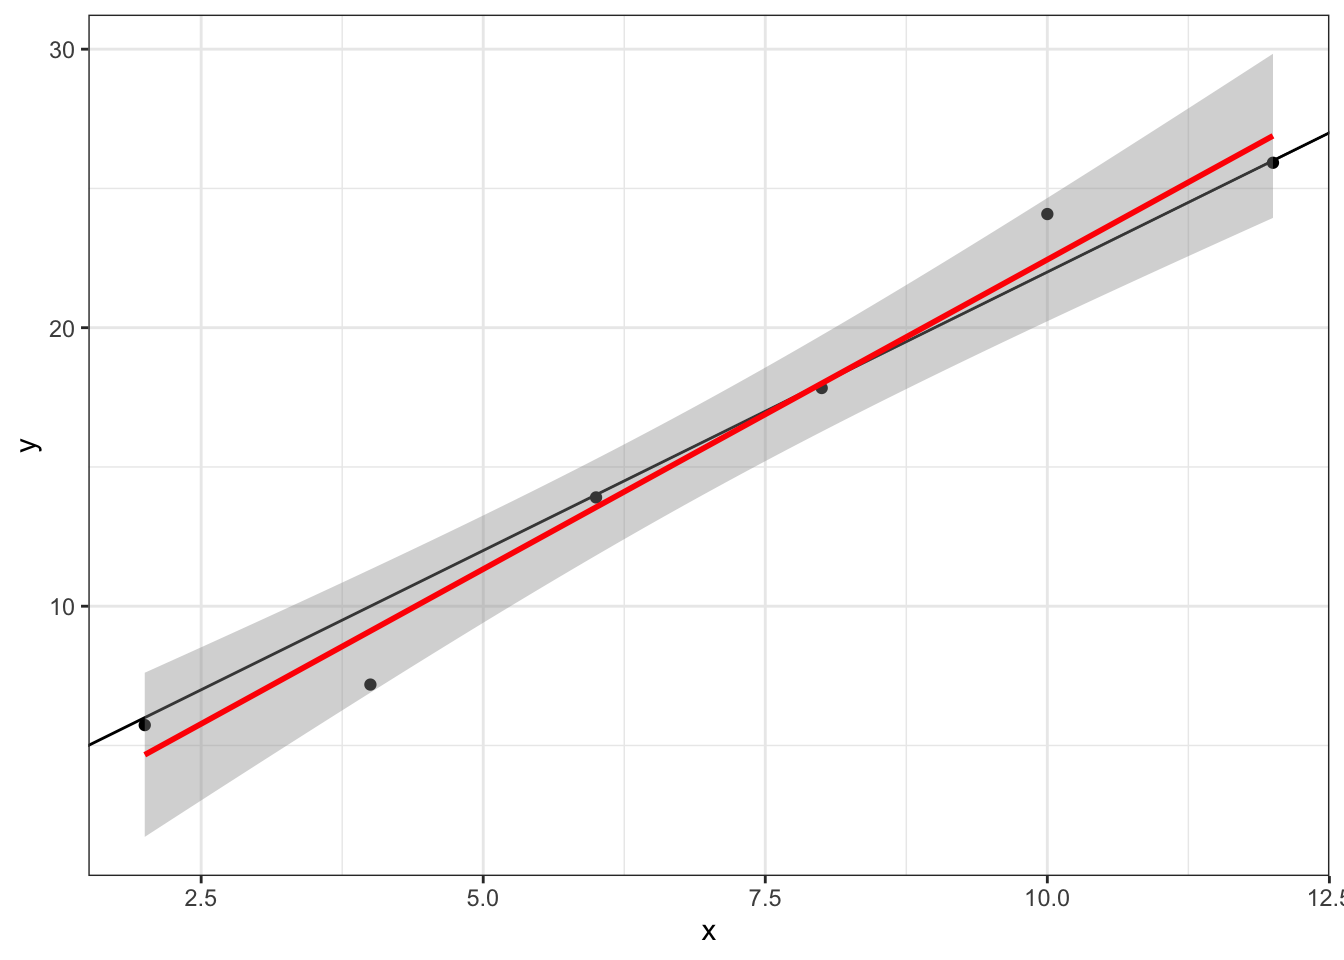
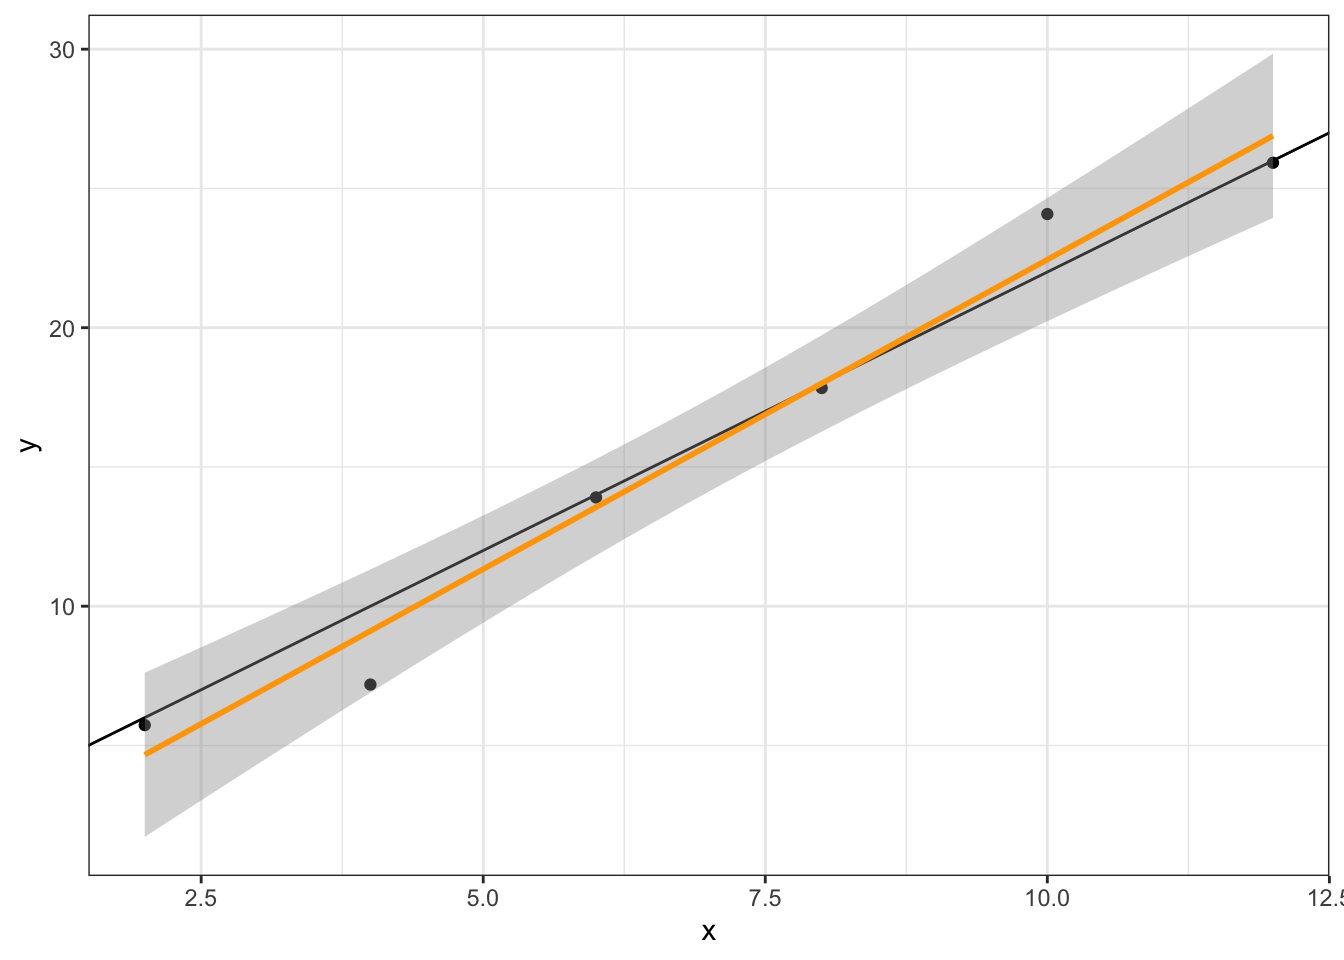
Minor edits

diff --git a/index.html b/index.html
@@ -283,7 +283,7 @@ e_i = y_i - \hat{y}_i
 <span id="cb9-4"><a href="#cb9-4" aria-hidden="true" tabindex="-1"></a>  <span class="fu">geom_point</span>() <span class="sc">+</span></span>
 <span id="cb9-5"><a href="#cb9-5" aria-hidden="true" tabindex="-1"></a>  <span class="fu">geom_abline</span>(<span class="at">intercept =</span> a, <span class="at">slope =</span> b) <span class="sc">+</span></span>
 <span id="cb9-6"><a href="#cb9-6" aria-hidden="true" tabindex="-1"></a>  <span class="co"># geom_abline(intercept = fit$coefficients[1], slope = fit$coefficients[2], color = "red") +</span></span>
-<span id="cb9-7"><a href="#cb9-7" aria-hidden="true" tabindex="-1"></a>  <span class="fu">geom_smooth</span>(<span class="at">method =</span> <span class="st">"lm"</span>, <span class="at">color =</span> <span class="st">"red"</span>)</span></code><button title="Copy to Clipboard" class="code-copy-button"><i class="bi"></i></button></pre></div>
+<span id="cb9-7"><a href="#cb9-7" aria-hidden="true" tabindex="-1"></a>  <span class="fu">geom_smooth</span>(<span class="at">method =</span> <span class="st">"lm"</span>, <span class="at">color =</span> <span class="st">"orange"</span>)</span></code><button title="Copy to Clipboard" class="code-copy-button"><i class="bi"></i></button></pre></div>
 <div class="cell-output-display">
 <p><img src="index_files/figure-html/unnamed-chunk-8-1.png" class="img-fluid" width="672"></p>
 </div>
@@ -676,8 +676,8 @@ Levels          (treatmentCTRL + treatmentC)/2 - (treatmentA + treatmentB)/2
 </div>
 </section>
 </section>
-<section id="study-of-interactions-and-additivity-of-treatments" class="level2">
-<h2 class="anchored" data-anchor-id="study-of-interactions-and-additivity-of-treatments">Study of interactions and additivity of treatments</h2>
+<section id="studies-of-interactions-and-additivity-of-treatments" class="level2">
+<h2 class="anchored" data-anchor-id="studies-of-interactions-and-additivity-of-treatments">Studies of interactions and additivity of treatments</h2>
 <section id="interactions-using-a-single-factor-model" class="level3">
 <h3 class="anchored" data-anchor-id="interactions-using-a-single-factor-model">Interactions using a single factor model</h3>
 </section>
@@ -755,13 +755,76 @@ attr(,"contrasts")$treat2
 </section>
 <section id="studies-with-multiple-factors" class="level2">
 <h2 class="anchored" data-anchor-id="studies-with-multiple-factors">Studies with multiple factors</h2>
-<p>XXX</p>
+<div class="cell">
+<div class="sourceCode cell-code" id="cb48"><pre class="sourceCode r code-with-copy"><code class="sourceCode r"><span id="cb48-1"><a href="#cb48-1" aria-hidden="true" tabindex="-1"></a>tissue <span class="ot">=</span> treat1</span>
+<span id="cb48-2"><a href="#cb48-2" aria-hidden="true" tabindex="-1"></a><span class="fu">levels</span>(tissue) <span class="ot">=</span> <span class="fu">c</span>(<span class="st">"LUNG"</span>, <span class="st">"BRAIN"</span>)</span>
+<span id="cb48-3"><a href="#cb48-3" aria-hidden="true" tabindex="-1"></a>cells <span class="ot">=</span> treat2</span>
+<span id="cb48-4"><a href="#cb48-4" aria-hidden="true" tabindex="-1"></a><span class="fu">levels</span>(cells) <span class="ot">=</span> <span class="fu">c</span>(<span class="st">"B"</span>, <span class="st">"T"</span>)</span>
+<span id="cb48-5"><a href="#cb48-5" aria-hidden="true" tabindex="-1"></a>grp <span class="ot">=</span> <span class="fu">paste</span>(tissue, cells, <span class="at">sep=</span><span class="st">":"</span>)</span>
+<span id="cb48-6"><a href="#cb48-6" aria-hidden="true" tabindex="-1"></a>grp <span class="ot">=</span> <span class="fu">as_factor</span>(grp)</span>
+<span id="cb48-7"><a href="#cb48-7" aria-hidden="true" tabindex="-1"></a>data <span class="ot">=</span> <span class="fu">tibble</span>(mouse, expression, tissue, cells, grp)</span>
+<span id="cb48-8"><a href="#cb48-8" aria-hidden="true" tabindex="-1"></a>data</span></code><button title="Copy to Clipboard" class="code-copy-button"><i class="bi"></i></button></pre></div>
+<div class="cell-output-display">
+
+<div data-pagedtable="false">
+  <script data-pagedtable-source="" type="application/json">
+{"columns":[{"label":["mouse"],"name":[1],"type":["chr"],"align":["left"]},{"label":["expression"],"name":[2],"type":["dbl"],"align":["right"]},{"label":["tissue"],"name":[3],"type":["fct"],"align":["left"]},{"label":["cells"],"name":[4],"type":["fct"],"align":["left"]},{"label":["grp"],"name":[5],"type":["fct"],"align":["left"]}],"data":[{"1":"MOUSE1","2":"0.9425","3":"LUNG","4":"B","5":"LUNG:B"},{"1":"MOUSE2","2":"0.9224","3":"LUNG","4":"B","5":"LUNG:B"},{"1":"MOUSE3","2":"1.0675","3":"LUNG","4":"B","5":"LUNG:B"},{"1":"MOUSE4","2":"1.9700","3":"BRAIN","4":"B","5":"BRAIN:B"},{"1":"MOUSE5","2":"2.0204","3":"BRAIN","4":"B","5":"BRAIN:B"},{"1":"MOUSE6","2":"2.0303","3":"BRAIN","4":"B","5":"BRAIN:B"},{"1":"MOUSE7","2":"3.0623","3":"LUNG","4":"T","5":"LUNG:T"},{"1":"MOUSE8","2":"2.9547","3":"LUNG","4":"T","5":"LUNG:T"},{"1":"MOUSE9","2":"2.9967","3":"LUNG","4":"T","5":"LUNG:T"},{"1":"MOUSE10","2":"4.8688","3":"BRAIN","4":"T","5":"BRAIN:T"},{"1":"MOUSE11","2":"5.2282","3":"BRAIN","4":"T","5":"BRAIN:T"},{"1":"MOUSE12","2":"4.8479","3":"BRAIN","4":"T","5":"BRAIN:T"}],"options":{"columns":{"min":{},"max":[10]},"rows":{"min":[10],"max":[10]},"pages":{}}}
+  </script>
+</div>
+</div>
+</div>
+<div class="cell">
+<div class="sourceCode cell-code" id="cb49"><pre class="sourceCode r code-with-copy"><code class="sourceCode r"><span id="cb49-1"><a href="#cb49-1" aria-hidden="true" tabindex="-1"></a>(<span class="at">design =</span> <span class="fu">model.matrix</span>(expression <span class="sc">~</span> <span class="dv">0</span> <span class="sc">+</span> grp))</span></code><button title="Copy to Clipboard" class="code-copy-button"><i class="bi"></i></button></pre></div>
+<div class="cell-output cell-output-stdout">
+<pre><code>   grpLUNG:B grpBRAIN:B grpLUNG:T grpBRAIN:T
+1          1          0         0          0
+2          1          0         0          0
+3          1          0         0          0
+4          0          1         0          0
+5          0          1         0          0
+6          0          1         0          0
+7          0          0         1          0
+8          0          0         1          0
+9          0          0         1          0
+10         0          0         0          1
+11         0          0         0          1
+12         0          0         0          1
+attr(,"assign")
+[1] 1 1 1 1
+attr(,"contrasts")
+attr(,"contrasts")$grp
+[1] "contr.treatment"</code></pre>
+</div>
+</div>
+<div class="cell">
+<div class="sourceCode cell-code" id="cb51"><pre class="sourceCode r code-with-copy"><code class="sourceCode r"><span id="cb51-1"><a href="#cb51-1" aria-hidden="true" tabindex="-1"></a>fit <span class="ot">=</span> <span class="fu">lm</span>(expression <span class="sc">~</span> <span class="dv">0</span> <span class="sc">+</span> grp)</span>
+<span id="cb51-2"><a href="#cb51-2" aria-hidden="true" tabindex="-1"></a><span class="fu">tidy</span>(fit)</span></code><button title="Copy to Clipboard" class="code-copy-button"><i class="bi"></i></button></pre></div>
+<div class="cell-output-display">
+
+<div data-pagedtable="false">
+  <script data-pagedtable-source="" type="application/json">
+{"columns":[{"label":["term"],"name":[1],"type":["chr"],"align":["left"]},{"label":["estimate"],"name":[2],"type":["dbl"],"align":["right"]},{"label":["std.error"],"name":[3],"type":["dbl"],"align":["right"]},{"label":["statistic"],"name":[4],"type":["dbl"],"align":["right"]},{"label":["p.value"],"name":[5],"type":["dbl"],"align":["right"]}],"data":[{"1":"grpLUNG:B","2":"0.9775","3":"0.06823","4":"14.33","5":"0.00000055025771"},{"1":"grpBRAIN:B","2":"2.0069","3":"0.06823","4":"29.41","5":"0.00000000193467"},{"1":"grpLUNG:T","2":"3.0045","3":"0.06823","4":"44.03","5":"0.00000000007808"},{"1":"grpBRAIN:T","2":"4.9816","3":"0.06823","4":"73.01","5":"0.00000000000138"}],"options":{"columns":{"min":{},"max":[10]},"rows":{"min":[10],"max":[10]},"pages":{}}}
+  </script>
+</div>
+</div>
+</div>
+<div class="cell">
+<div class="sourceCode cell-code" id="cb52"><pre class="sourceCode r code-with-copy"><code class="sourceCode r"><span id="cb52-1"><a href="#cb52-1" aria-hidden="true" tabindex="-1"></a><span class="fu">avg_comparisons</span>(fit, <span class="at">df =</span> insight<span class="sc">::</span><span class="fu">get_df</span>(fit))</span></code><button title="Copy to Clipboard" class="code-copy-button"><i class="bi"></i></button></pre></div>
+<div class="cell-output-display">
+
+<div data-pagedtable="false">
+  <script data-pagedtable-source="" type="application/json">
+{"columns":[{"label":["term"],"name":[1],"type":["chr"],"align":["left"]},{"label":["contrast"],"name":[2],"type":["chr"],"align":["left"]},{"label":["estimate"],"name":[3],"type":["dbl"],"align":["right"]},{"label":["std.error"],"name":[4],"type":["dbl"],"align":["right"]},{"label":["statistic"],"name":[5],"type":["dbl"],"align":["right"]},{"label":["p.value"],"name":[6],"type":["dbl"],"align":["right"]},{"label":["conf.low"],"name":[7],"type":["dbl"],"align":["right"]},{"label":["conf.high"],"name":[8],"type":["dbl"],"align":["right"]},{"label":["df"],"name":[9],"type":["int"],"align":["right"]}],"data":[{"1":"grp","2":"BRAIN:B - LUNG:B","3":"1.029","4":"0.0965","5":"10.67","6":"0.0000052273417","7":"0.8069","8":"1.252","9":"8"},{"1":"grp","2":"BRAIN:T - LUNG:B","3":"4.004","4":"0.0965","5":"41.49","6":"0.0000000001253","7":"3.7816","8":"4.227","9":"8"},{"1":"grp","2":"LUNG:T - LUNG:B","3":"2.027","4":"0.0965","5":"21.01","6":"0.0000000276871","7":"1.8046","8":"2.250","9":"8"}],"options":{"columns":{"min":{},"max":[10]},"rows":{"min":[10],"max":[10]},"pages":{}}}
+  </script>
+</div>
+</div>
+</div>
 </section>
 <section id="studies-with-multiple-covariates-and-factors" class="level2">
 <h2 class="anchored" data-anchor-id="studies-with-multiple-covariates-and-factors">Studies with multiple covariates (and factors)</h2>
 <p>XXX</p>
 <div class="cell">
-<div class="sourceCode cell-code" id="cb48"><pre class="sourceCode r code-with-copy"><code class="sourceCode r"><span id="cb48-1"><a href="#cb48-1" aria-hidden="true" tabindex="-1"></a><span class="fu">sessionInfo</span>()</span></code><button title="Copy to Clipboard" class="code-copy-button"><i class="bi"></i></button></pre></div>
+<div class="sourceCode cell-code" id="cb53"><pre class="sourceCode r code-with-copy"><code class="sourceCode r"><span id="cb53-1"><a href="#cb53-1" aria-hidden="true" tabindex="-1"></a><span class="fu">sessionInfo</span>()</span></code><button title="Copy to Clipboard" class="code-copy-button"><i class="bi"></i></button></pre></div>
 <div class="cell-output cell-output-stdout">
 <pre><code>R version 4.2.2 (2022-10-31)
 Platform: x86_64-apple-darwin17.0 (64-bit)
